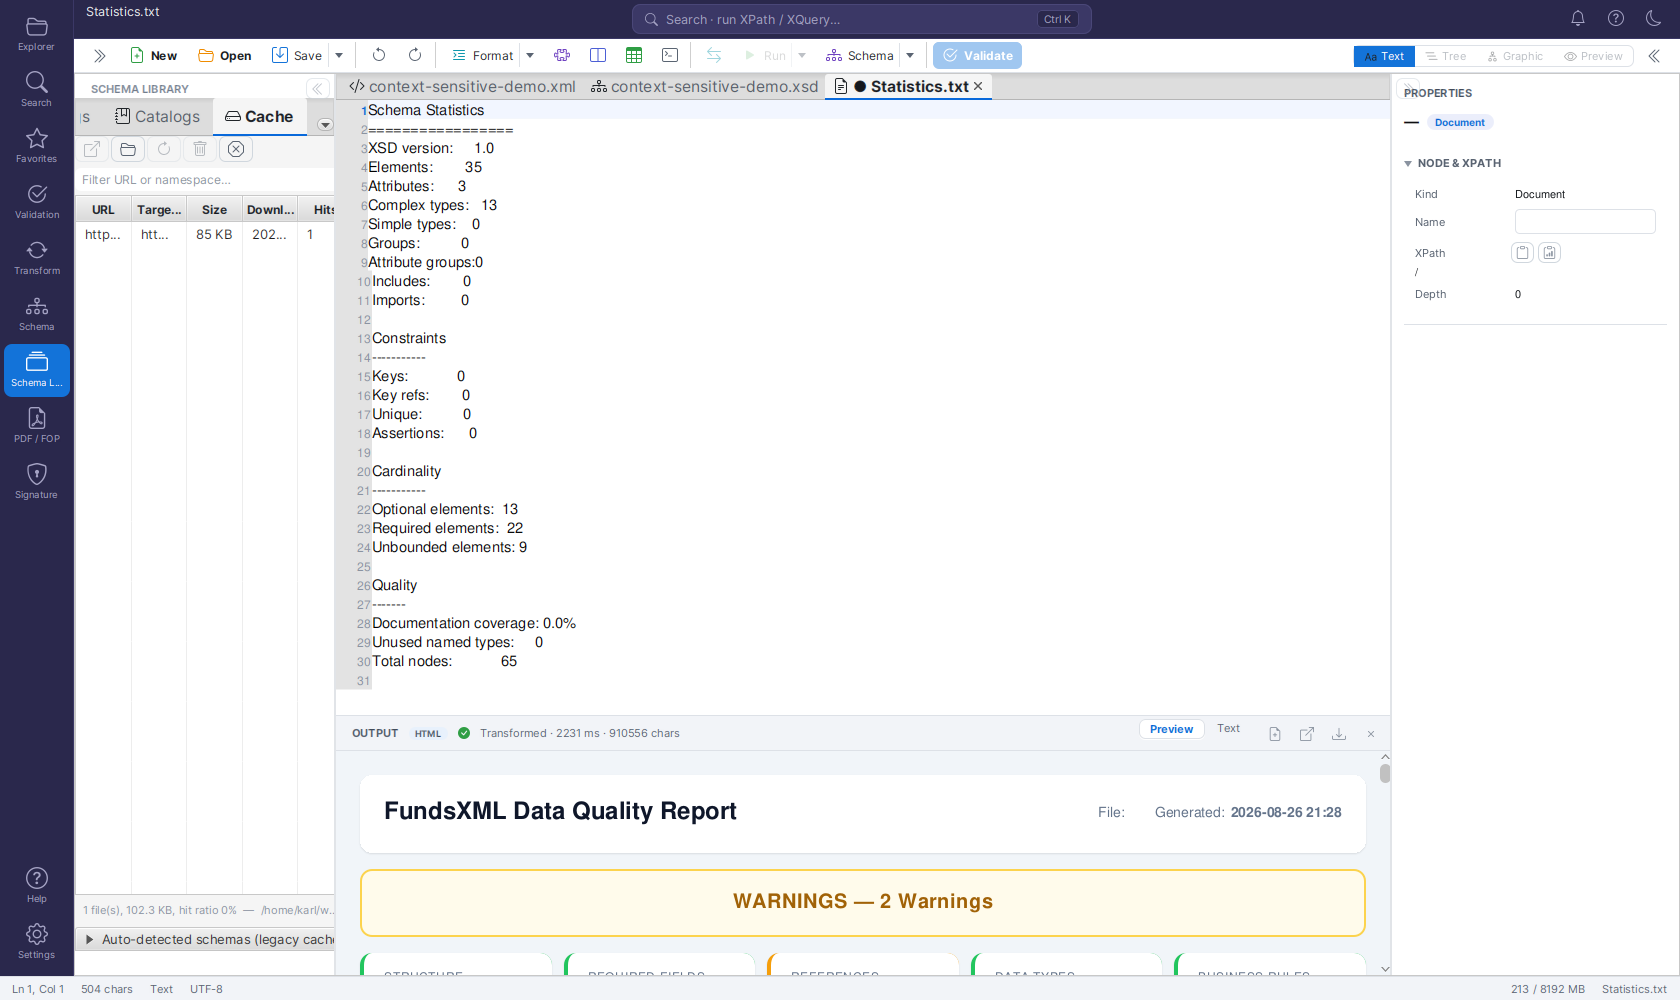
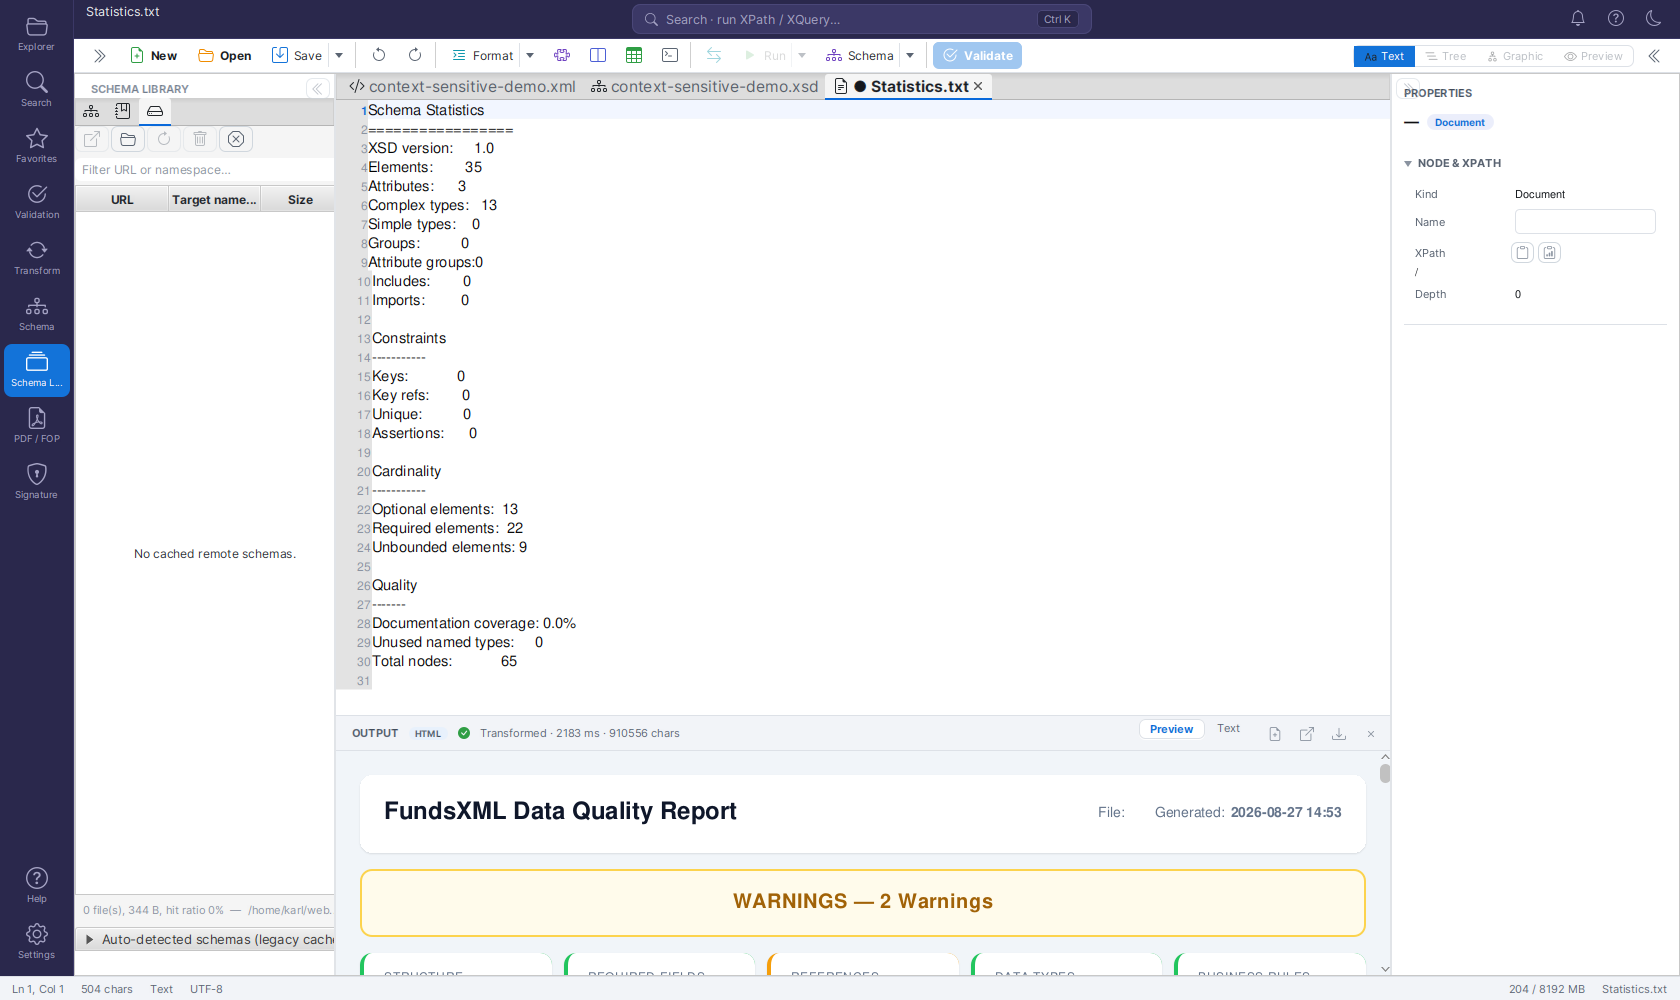
docs: align Schema Library docs with the final UI
Claude-Session: https://claude.ai/code/session_01WMLgBUkBVsmvnzTNrDAtbC

diff --git a/docs/schema-library.md b/docs/schema-library.md
@@ -43,11 +43,12 @@ The library is consulted whenever a document needs a schema but doesn't say whic
 *The Mappings tab: namespace → schema entries with status icons, filter and toolbar.*
 
 The table has one row per mapping: a status icon, **Namespace** (or `<root> (no namespace)`
-for root-element mappings), **Location**, **Kind** (`XSD` or `JSON_SCHEMA`), **Source**
-(`user`, `catalog` or `bundled`) and an **On** checkbox to enable/disable the row without
-deleting it. The **filter** field searches namespace, location, description and root
-element. Bundled rows render in italics and can only be enabled/disabled, never edited or
-removed.
+for root-element mappings), **Location** and an **On** checkbox to enable/disable the row
+without deleting it. Two more columns, **Kind** (`XSD` or `JSON_SCHEMA`) and **Source**
+(`user`, `catalog` or `bundled`), are hidden by default to keep the table readable in the
+narrow side panel - click the small menu button at the table's top-right corner to show
+them. The **filter** field searches namespace, location, description and root element.
+Bundled rows render in italics and can only be enabled/disabled, never edited or removed.
 
 | Icon | Status | Meaning |
 |------|--------|---------|
@@ -107,12 +108,13 @@ Example catalog mapping the bundled X3D 4.0 namespace to a local copy:
 
 Every remote schema resolved through the library (or downloaded because a document
 referenced it directly) is cached under `~/.freeXmlToolkit/cache/schemas`. The Cache tab
-lists **URL**, **Target namespace**, file **Size**, **Downloaded** timestamp and **Hits**
-(access count), with a **filter** over URL/namespace. **Open** opens the cached file as an
-editor tab; **Reveal** shows the cache folder in the system file manager; **Refresh**
-re-downloads the selected entry; **Delete** removes one cached file (re-downloaded on next
-use); **Clear** wipes the entire cache. A footer line reports the total file count, total
-size and the cache hit ratio.
+lists **URL**, **Target namespace** and file **Size** by default, with a **filter** over
+URL/namespace. Two more columns, **Downloaded** timestamp and **Hits** (access count), are
+hidden by default - click the table's menu button to show them. **Open** opens the cached
+file as an editor tab; **Reveal** shows the cache folder in the system file manager;
+**Refresh** re-downloads the selected entry; **Delete** removes one cached file
+(re-downloaded on next use); **Clear** wipes the entire cache. A footer line reports the
+total file count, total size and the cache hit ratio.
 
 A collapsible **"Auto-detected schemas (legacy cache)"** group underneath holds the older,
 separate cache of schemas auto-downloaded from `xsi:schemaLocation` references (one folder
